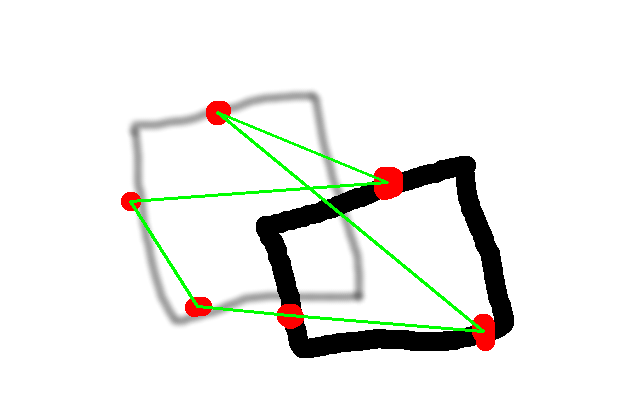
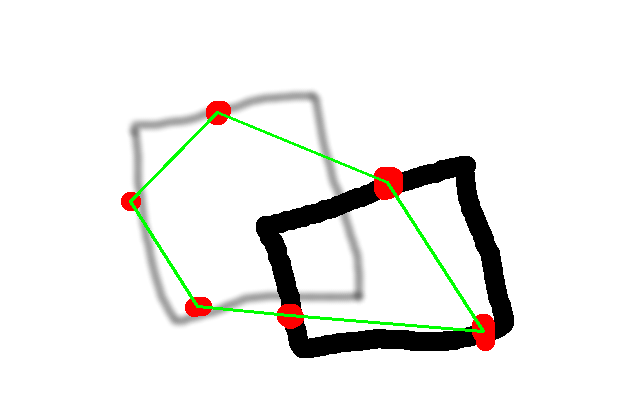
mod  uncross

diff --git a/uncross_path.py b/uncross_path.py
@@ -14,20 +14,25 @@ def parse_cmd_args ():
 def has_cross (pb, pe, qb, qe):
 	m = (pb[1] - pe[1]) / (pb[0] - pe[0])
 	c = pb[1] - m * pb[0] 
-	print("debug: hasc: {0}, {1}, {2}, {3}".format(pb, pe, qb, qe))
-	print("debug: yy: {0}, {1}".format(m * qb[0] + c - qb[1], m * qe[0] + c - qe[1]))
+#	print("debug: hasc: {0}, {1}, {2}, {3}".format(pb, pe, qb, qe))
+#	print("debug: yy: {0}, {1}".format(m * qb[0] + c - qb[1], m * qe[0] + c - qe[1]))
 	return ((m * qb[0] + c - qb[1]) * (m * qe[0] + c - qe[1])) < 0
 
+def has_cross_in_path (pb, pe, path):
+	for pathidx_ in range(len(path) - 1):
+		if has_cross(path[pathidx_], path[pathidx_ + 1], pb, pe):
+			return True
+	return False
+
 def uncross (rest, path):
+#	print("debug: path: {0}".format(path))
 	if not rest:
-		return path
+		if has_cross_in_path(path[0], path[-1], path):
+			return None
+		else:
+			return path
 	for ptidx in range(len(rest)):
-		crossing = False
-		for pathidx_ in range(len(path) - 1):
-			if has_cross(path[pathidx_], path[pathidx_ + 1], path[-1], rest[ptidx]):
-				crossing = True
-				break
-		if crossing:
+		if has_cross_in_path(path[-1], rest[ptidx], path):
 			continue
 		upath = uncross(rest[:ptidx] + rest[ptidx + 1:], path + [rest[ptidx]])
 		if upath:
